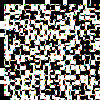
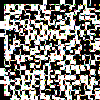
Updated canada.pymy1.png .

diff --git a/canada.py b/canada.py
@@ -40,8 +40,8 @@ moverPieza(outp,8,8,0,12)
 moverPieza(outp,10,1,0,5)
 moverPieza(outp,11,11,0,8)
 moverPieza(outp,12,16,0,2)
-moverPieza(outp,13,6,0,4)
-moverPieza(outp,15,5,0,11)
+moverPieza(outp,13,6,0,11)
+moverPieza(outp,15,5,0,4)
 moverPieza(outp,16,5,0,16)
 moverPieza(outp,17,4,0,15)
 moverPieza(outp,17,12,0,18)
